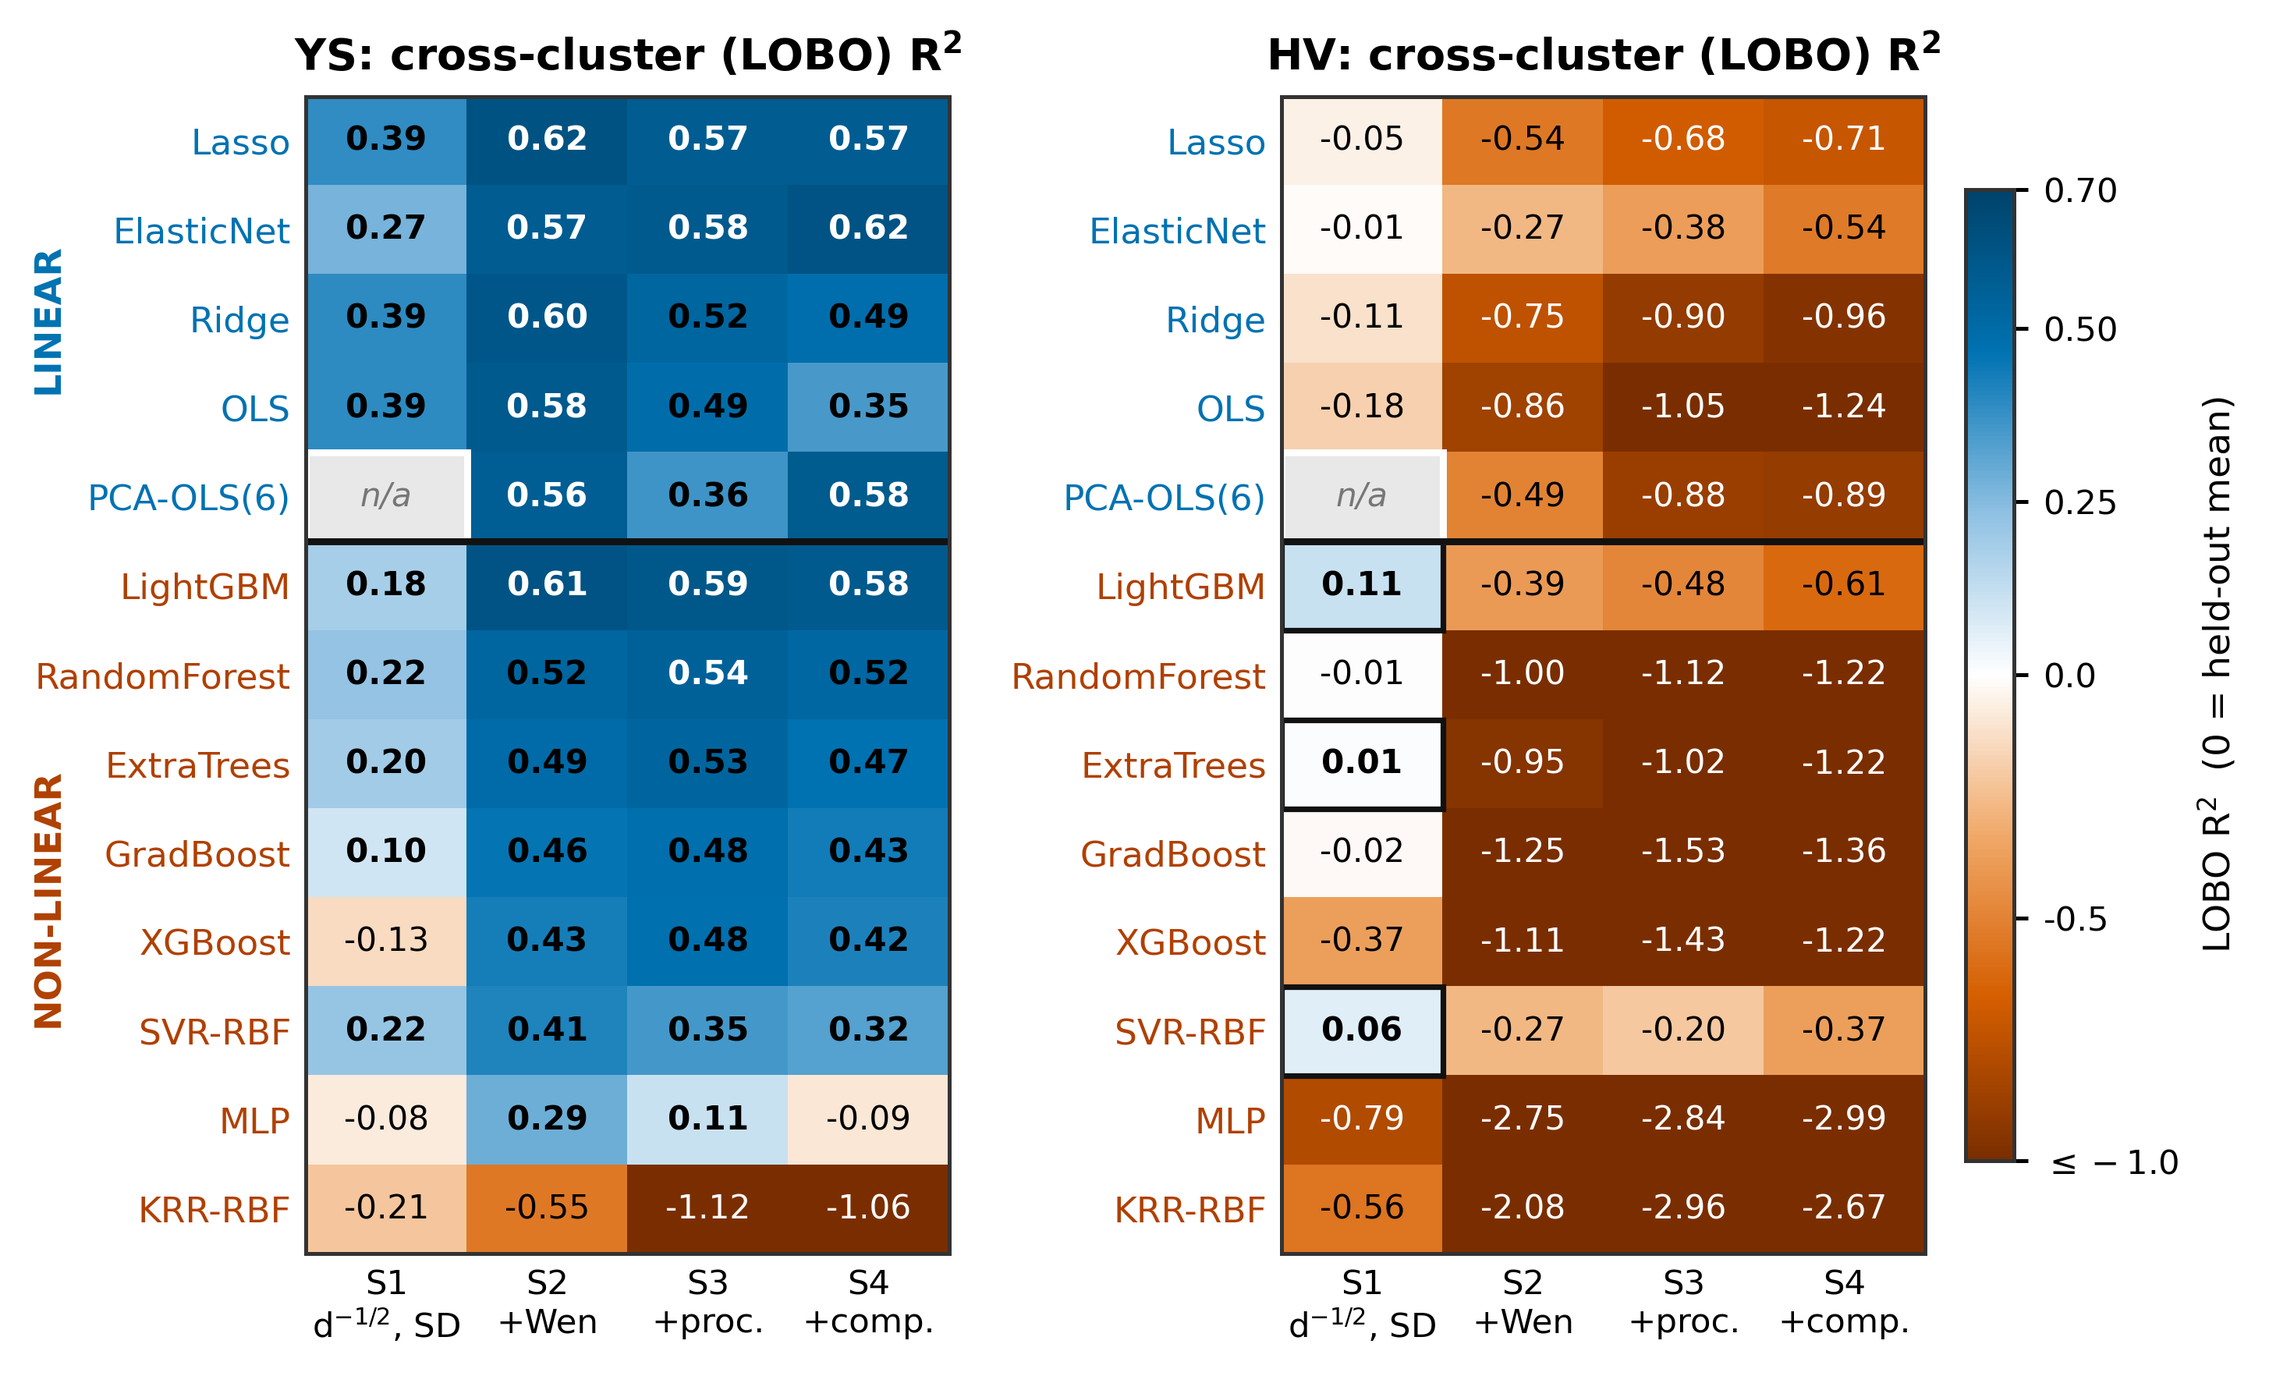
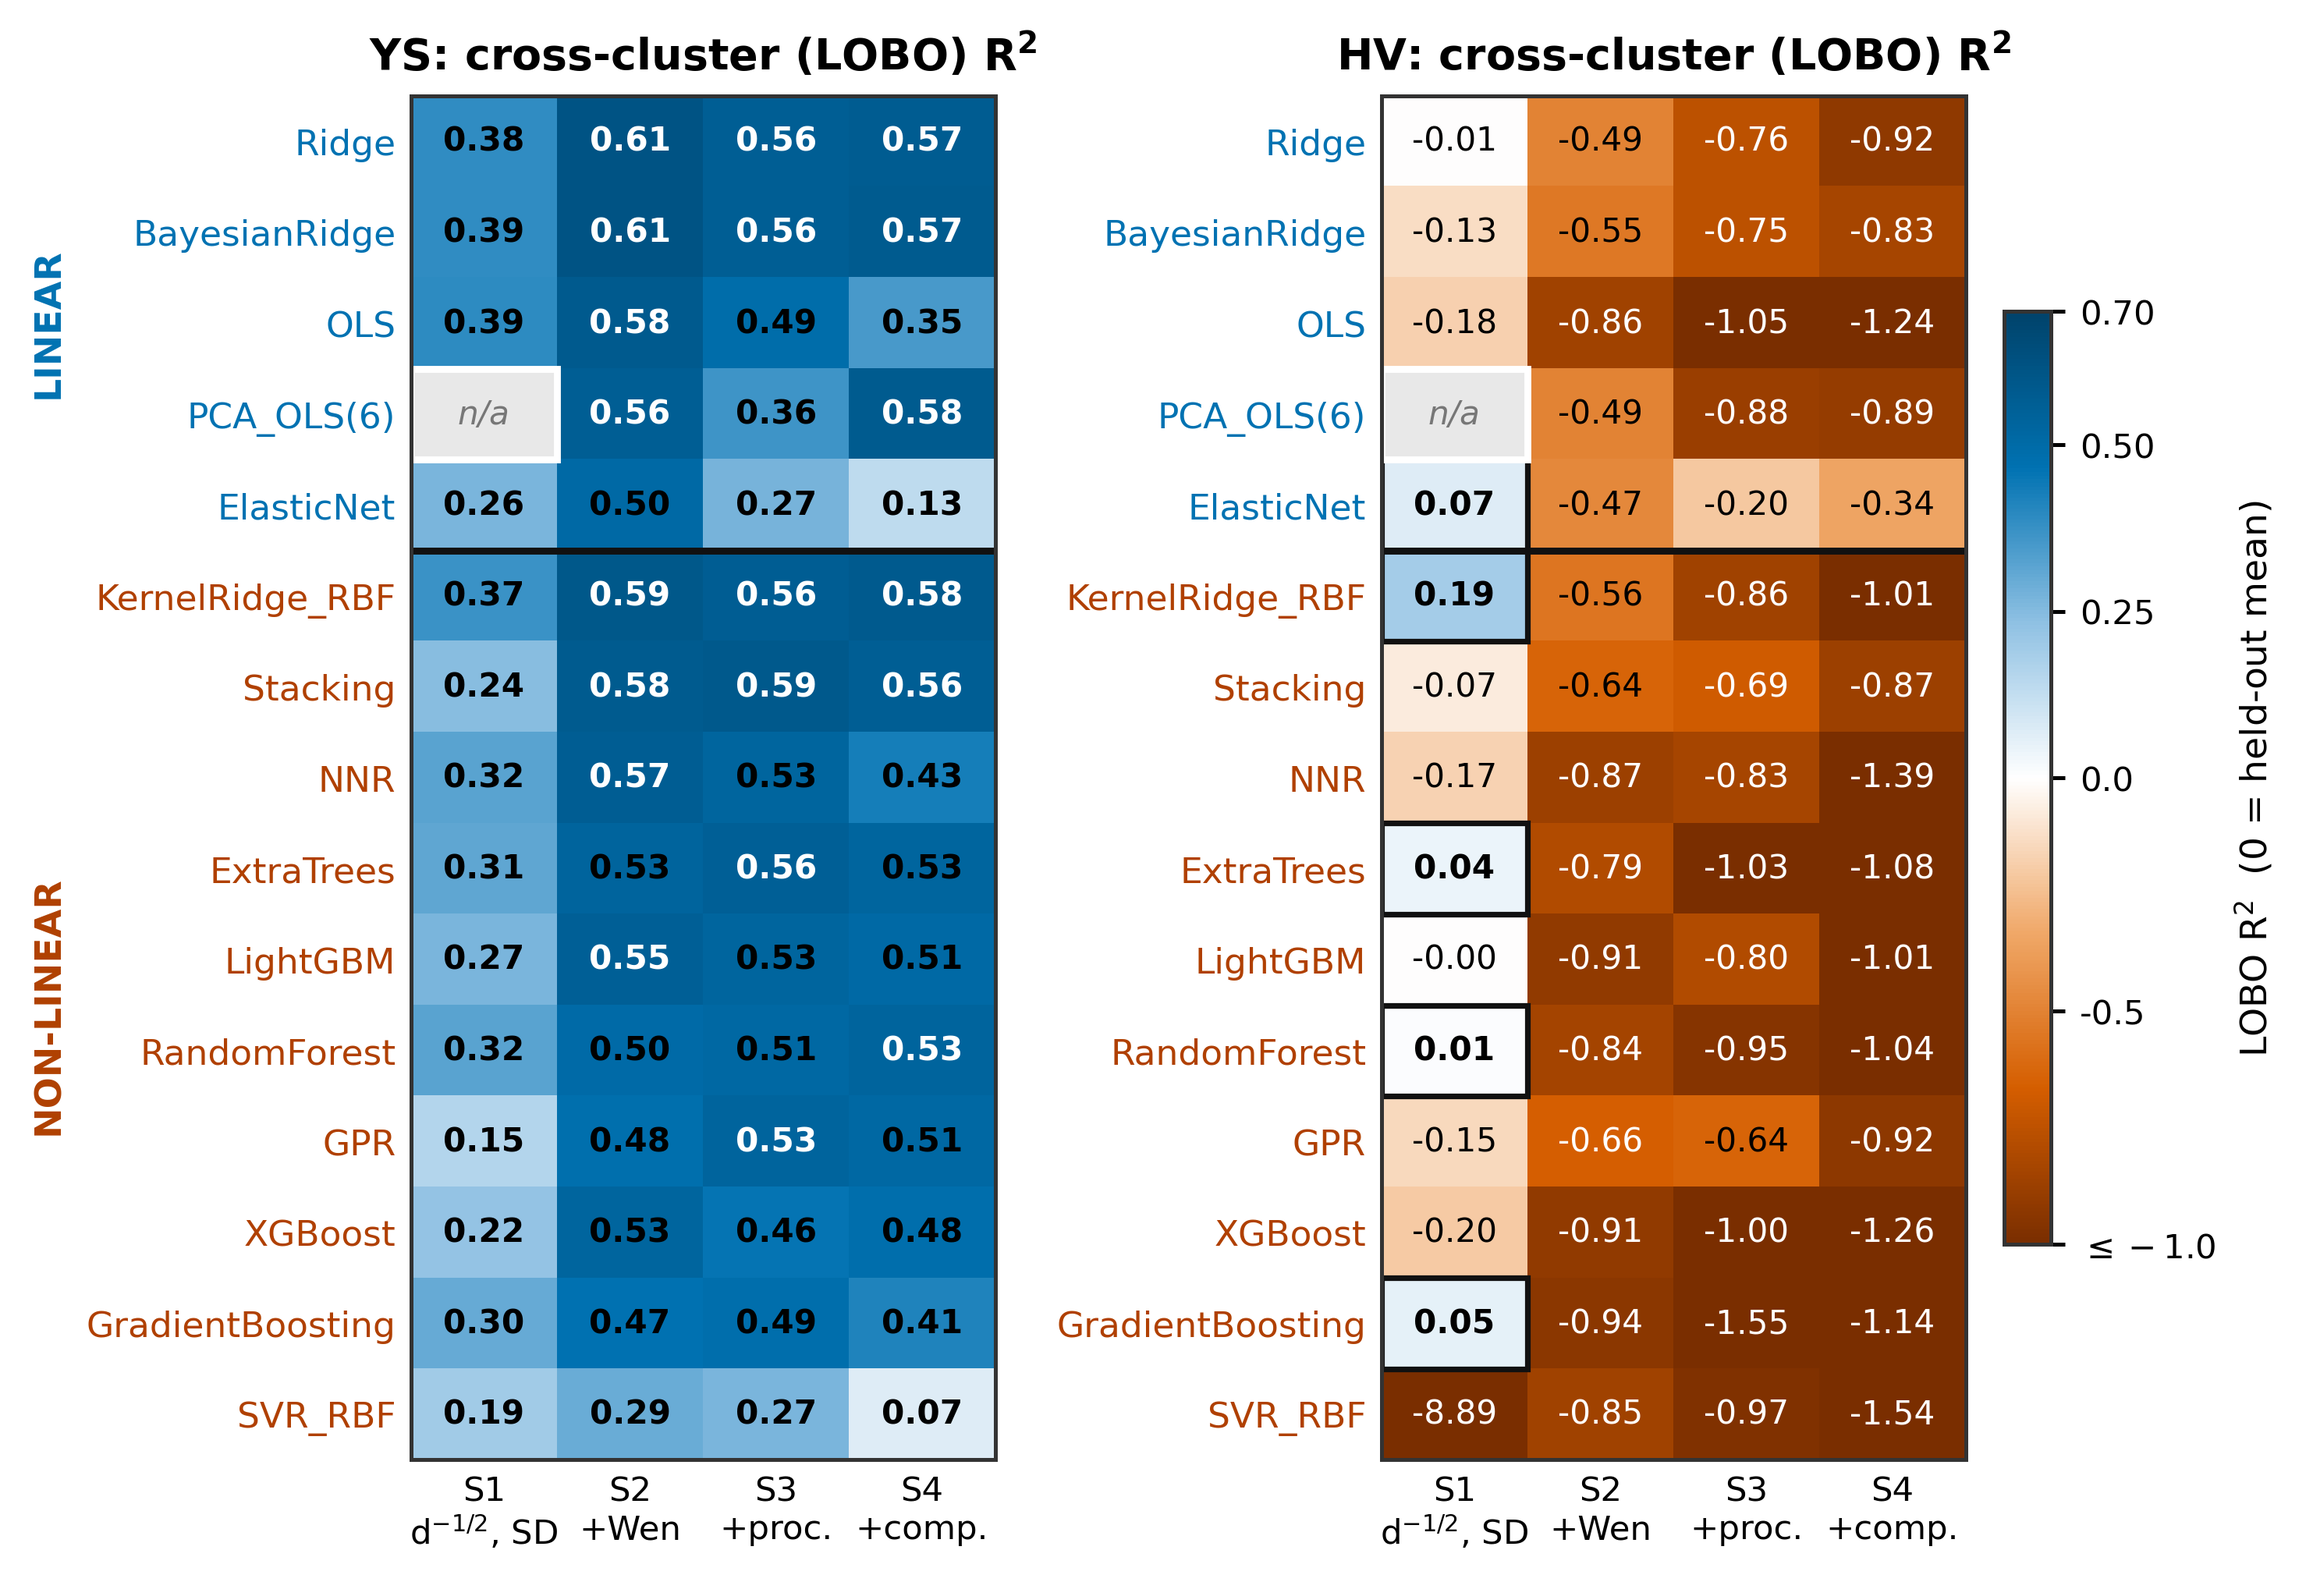
Rebuild fair_comparison_LOBO_heatmap from armote_cv_summary.csv
ARMOTE-CV is now the paper's main Family 4 comparison, replacing the
zero-tuning fair_comparison.py audit that generated this figure before.
Same visual design (linear/non-linear grouped, diverging colormap, YS/HV
side by side), now showing the 15-model nested-tuned panel (Dummy, MLP,
Lasso, DecisionTree, CatBoost dropped from the figure; KernelRidge moved
to non-linear since it uses a fixed RBF kernel). Figure height scales with
row count; block labels repositioned to stop colliding with longer row
names (OLS, PCA_OLS(6), SVR_RBF, KernelRidge_RBF).

diff --git a/scripts/figures/replot_fair_comparison_heatmap.py b/scripts/figures/replot_fair_comparison_heatmap.py
@@ -1,10 +1,13 @@
 #!/usr/bin/env python3
-"""Family 4 matched-input LOBO heatmap (main2 Fig. 7 / paper Fig. fair_heatmap).
+"""ARMOTE-CV LOBO heatmap (main2 Fig. 7 / paper Fig. fair_heatmap).
 
-Reads results/fair_comparison.csv (no model re-run) and renders cross-cluster
-LOBO R^2 for every model x feature-set cell, for YS and HV side by side.
+Reads results/armote_cv_summary.csv (no model re-run) and renders cross-cluster
+LOBO R^2 for every model x feature-set cell, for YS and HV side by side. This
+is ARMOTE-CV's nested, per-fold Optuna-tuned panel (20 models); the earlier
+zero-tuning fair_comparison.py audit is no longer the paper's main comparison
+and is not shown here.
 
-Design notes (2026-08 revision):
+Design notes (2026-08 revision, carried over from the fair_comparison version):
   * Diverging Okabe-Ito palette centred on R^2 = 0, the meaningful reference
     ("no better than predicting the held-out mean").  The previous version
     used viridis clipped at vmin=0, which collapsed 48 of 51 HV cells onto a
@@ -17,7 +20,8 @@ Design notes (2026-08 revision):
   * Large fonts sized for a two-column \\textwidth (figure*) placement.
 
 Output: analysis_plots/fair_comparison_LOBO_heatmap.png (+ copies to the
-paper figure directories).
+paper figure directories). Filename kept as-is so it drops into the same
+figure slot in the paper without renaming references.
 """
 import shutil
 import numpy as np
@@ -44,20 +48,45 @@ VMIN, VMAX = -1.0, 0.7          # colour range; true values still printed
 NORM = TwoSlopeNorm(vmin=VMIN, vcenter=0.0, vmax=VMAX)
 
 SET_LABEL = {
-    'S1_grain':    'S1\n$d^{-1/2}$, SD',
-    'S2_wen':      'S2\n+Wen',
-    'S3_wen_proc': 'S3\n+proc.',
-    'S4_phys':     'S4\n+comp.',
+    'S1': 'S1\n$d^{-1/2}$, SD',
+    'S2': 'S2\n+Wen',
+    'S3': 'S3\n+proc.',
+    'S4': 'S4\n+comp.',
 }
-LADDER = ['S1_grain', 'S2_wen', 'S3_wen_proc', 'S4_phys']
+LADDER = ['S1', 'S2', 'S3', 'S4']
+
+# Excluded from this figure (still in armote_cv_summary.csv / the SI table,
+# just not shown here): Dummy (trivial baseline), MLP, Lasso, DecisionTree, CatBoost.
+DROP_MODELS = {'Dummy', 'MLP', 'Lasso', 'DecisionTree', 'CatBoost'}
+
+# ARMOTE-CV's linear-parametric block. KernelRidge uses a fixed RBF kernel
+# (run_5fold.py/run_lobo.py/run_loo.py: KernelRidge(kernel="rbf"), only alpha
+# and gamma are Optuna-tuned -- the kernel itself never varies), and an RBF
+# kernel maps into a non-linear feature space via the kernel trick, so it
+# belongs in NON-LINEAR despite "Ridge" in the name.
+LINEAR_MODELS = {
+    'LinearRegression', 'Ridge', 'Lasso', 'ElasticNet', 'BayesianRidge', 'PCA_OLS',
+}
+
+# Display-only renames (do not affect data lookups, which stay keyed by the
+# original Model column). SVR and KernelRidge both use a fixed RBF kernel
+# (SVR() defaults to kernel='rbf', never tuned/varied either) -- suffixed to
+# make that explicit, matching the companion repo's "SVR (RBF)" convention.
+DISPLAY_NAME = {
+    'LinearRegression': 'OLS',
+    'PCA_OLS': 'PCA_OLS(6)',
+    'SVR': 'SVR_RBF',
+    'KernelRidge': 'KernelRidge_RBF',
+}
 
 FS_TICK, FS_CELL, FS_TITLE, FS_LAB = S.FS_TICK, 7.6, S.FS_TITLE, S.FS_ANNOT
 
-df = pd.read_csv(f'{RESULTS_DIR}/fair_comparison.csv')
-family = df.drop_duplicates('Model').set_index('Model')['Family'].to_dict()
+df = pd.read_csv(f'{RESULTS_DIR}/armote_cv_summary.csv')
+df = df[~df['Model'].isin(DROP_MODELS)]
+family = {m: ('linear' if m in LINEAR_MODELS else 'nonlinear') for m in df['Model'].unique()}
 
 # shared row order: linear block first, each block sorted by best YS LOBO
-best_ys = df[df.Target == 'YS'].groupby('Model')['R2_LOBO'].max()
+best_ys = df[df.Target == 'YS'].groupby('Model')['LOBO_R2'].max()
 lin = sorted([m for m in family if family[m] == 'linear'],
              key=lambda m: -best_ys.get(m, -9))
 non = sorted([m for m in family if family[m] != 'linear'],
@@ -65,10 +94,12 @@ non = sorted([m for m in family if family[m] != 'linear'],
 ORDER = lin + non
 SPLIT = len(lin)                      # divider sits after the linear block
 
-fig, axes = plt.subplots(1, 2, figsize=(S.W_FULL, 4.3))
+# Height scales with row count (20 models here vs. 13 in the original
+# fair_comparison version) so cells stay legible rather than cramped.
+fig, axes = plt.subplots(1, 2, figsize=(S.W_FULL, 4.3 * len(ORDER) / 13))
 for ax, tgt in zip(axes, ['YS', 'HV']):
     piv = (df[df.Target == tgt]
-           .pivot_table(index='Model', columns='FeatureSet', values='R2_LOBO')
+           .pivot_table(index='Model', columns='FeatureSet', values='LOBO_R2')
            .reindex(index=ORDER, columns=LADDER))
     V = piv.values.astype(float)
 
@@ -77,7 +108,7 @@ for ax, tgt in zip(axes, ['YS', 'HV']):
     ax.set_xticks(range(V.shape[1]))
     ax.set_xticklabels([SET_LABEL[c] for c in piv.columns], fontsize=7.8)
     ax.set_yticks(range(V.shape[0]))
-    ax.set_yticklabels(piv.index, fontsize=8.2)
+    ax.set_yticklabels([DISPLAY_NAME.get(m, m) for m in piv.index], fontsize=8.2)
     for i, m in enumerate(piv.index):
         ax.get_yticklabels()[i].set_color(
             '#0072B2' if family[m] == 'linear' else '#B04000')
@@ -107,10 +138,14 @@ for ax, tgt in zip(axes, ['YS', 'HV']):
     ax.axhline(SPLIT - 0.5, color='#111111', linewidth=1.6)
     if tgt == 'YS':                       # group labels once, in the left margin
         n = V.shape[0]
-        ax.text(-0.40, 1 - (SPLIT / 2) / n, 'LINEAR', rotation=90,
+        # Pushed further left than the original (-0.40) since row labels are
+        # longer now (e.g. "KernelRidge_RBF", "GradientBoosting") and were
+        # colliding with the block labels at the old offset.
+        LABEL_X = -0.62
+        ax.text(LABEL_X, 1 - (SPLIT / 2) / n, 'LINEAR', rotation=90,
                 va='center', ha='center', fontsize=S.FS_ANNOT, fontweight='bold',
                 color='#0072B2', transform=ax.transAxes, clip_on=False)
-        ax.text(-0.40, 1 - ((SPLIT + n) / 2) / n, 'NON-LINEAR', rotation=90,
+        ax.text(LABEL_X, 1 - ((SPLIT + n) / 2) / n, 'NON-LINEAR', rotation=90,
                 va='center', ha='center', fontsize=S.FS_ANNOT, fontweight='bold',
                 color='#B04000', transform=ax.transAxes, clip_on=False)
 
@@ -124,7 +159,8 @@ cb.ax.set_yticklabels(['$\\leq-1.0$', '-0.5', '0.0', '0.25', '0.50', '0.70'])
 
 
 out = f'{PLOTS_DIR}/fair_comparison_LOBO_heatmap.png'
-fig.savefig(out)
+fig.savefig(out, bbox_inches='tight')  # LABEL_X pushes text past the axes; without
+                                        # this it can get clipped at the figure edge
 print('Wrote', out)
 
 for dest in (str(PAPER_FIG_DIR),):
